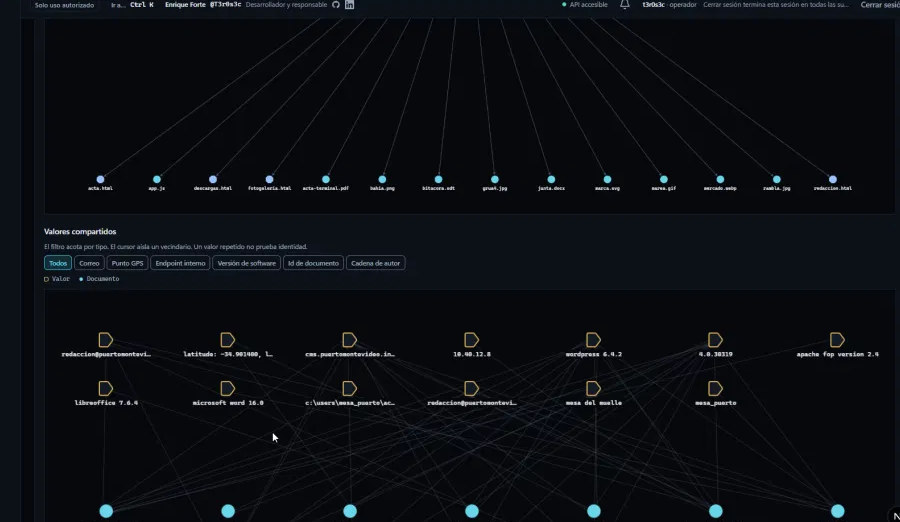
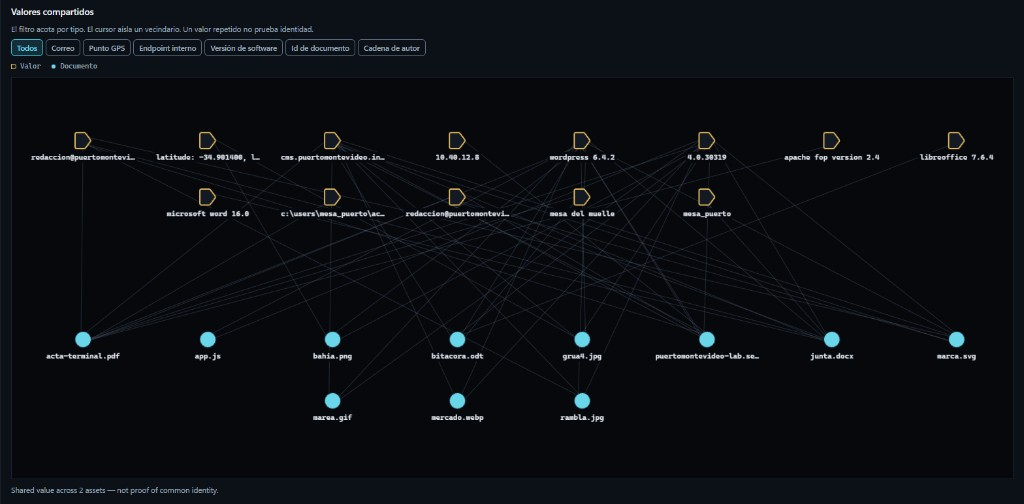
Replace the README charts with cleaner full-app screenshots.
The cropped shots cut the panel and graphs; these show the dashboard, both graphs, and the live bar inventory.

diff --git a/README.md b/README.md
@@ -196,6 +196,10 @@ Cuando el run termina, ábrelo desde el historial. Ahí están los hallazgos (co
 
 ![Grafo de valores compartidos](docs/readme/grafo-correlacion.png)
 
+En la misma ficha, mientras el run está en marcha o ya cerrado, hay dos barras: qué tipos de fichero entraron y cómo se reparten los hallazgos.
+
+![Inventario por tipo de fichero y de hallazgo](docs/readme/inventario-barras.png)
+
 El triaje lo marcas tú: `open`, `confirmed`, `false_positive` o `fixed`. Marcar un falso positivo no reescribe la evidencia.
 
 ### Panel
